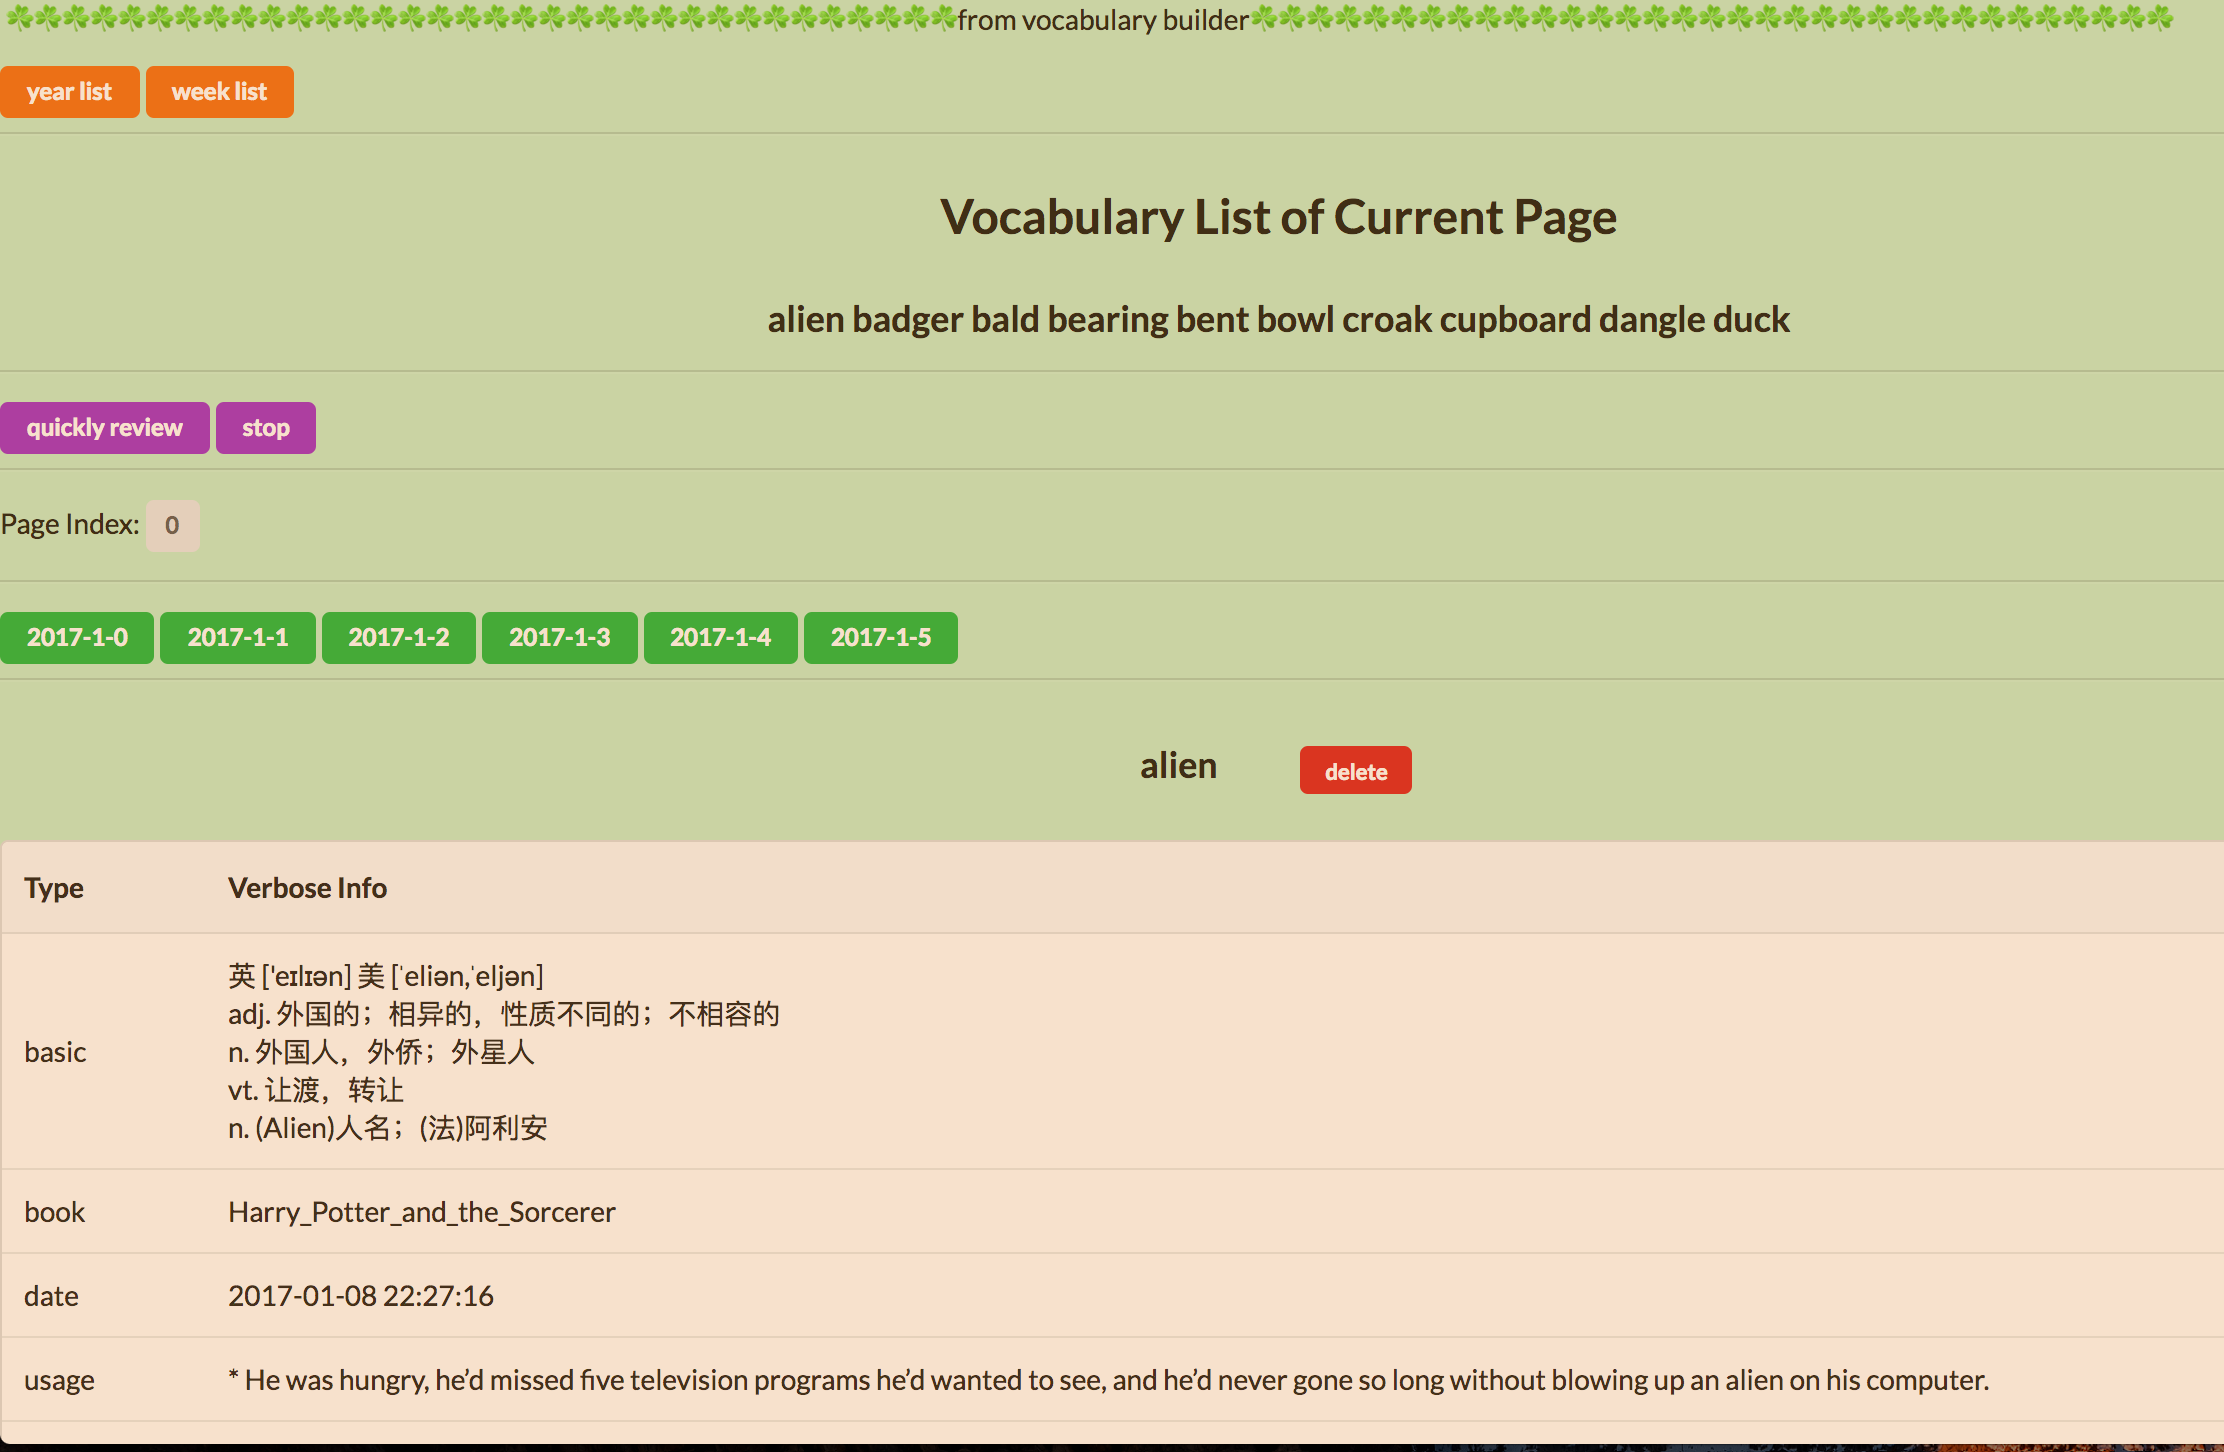
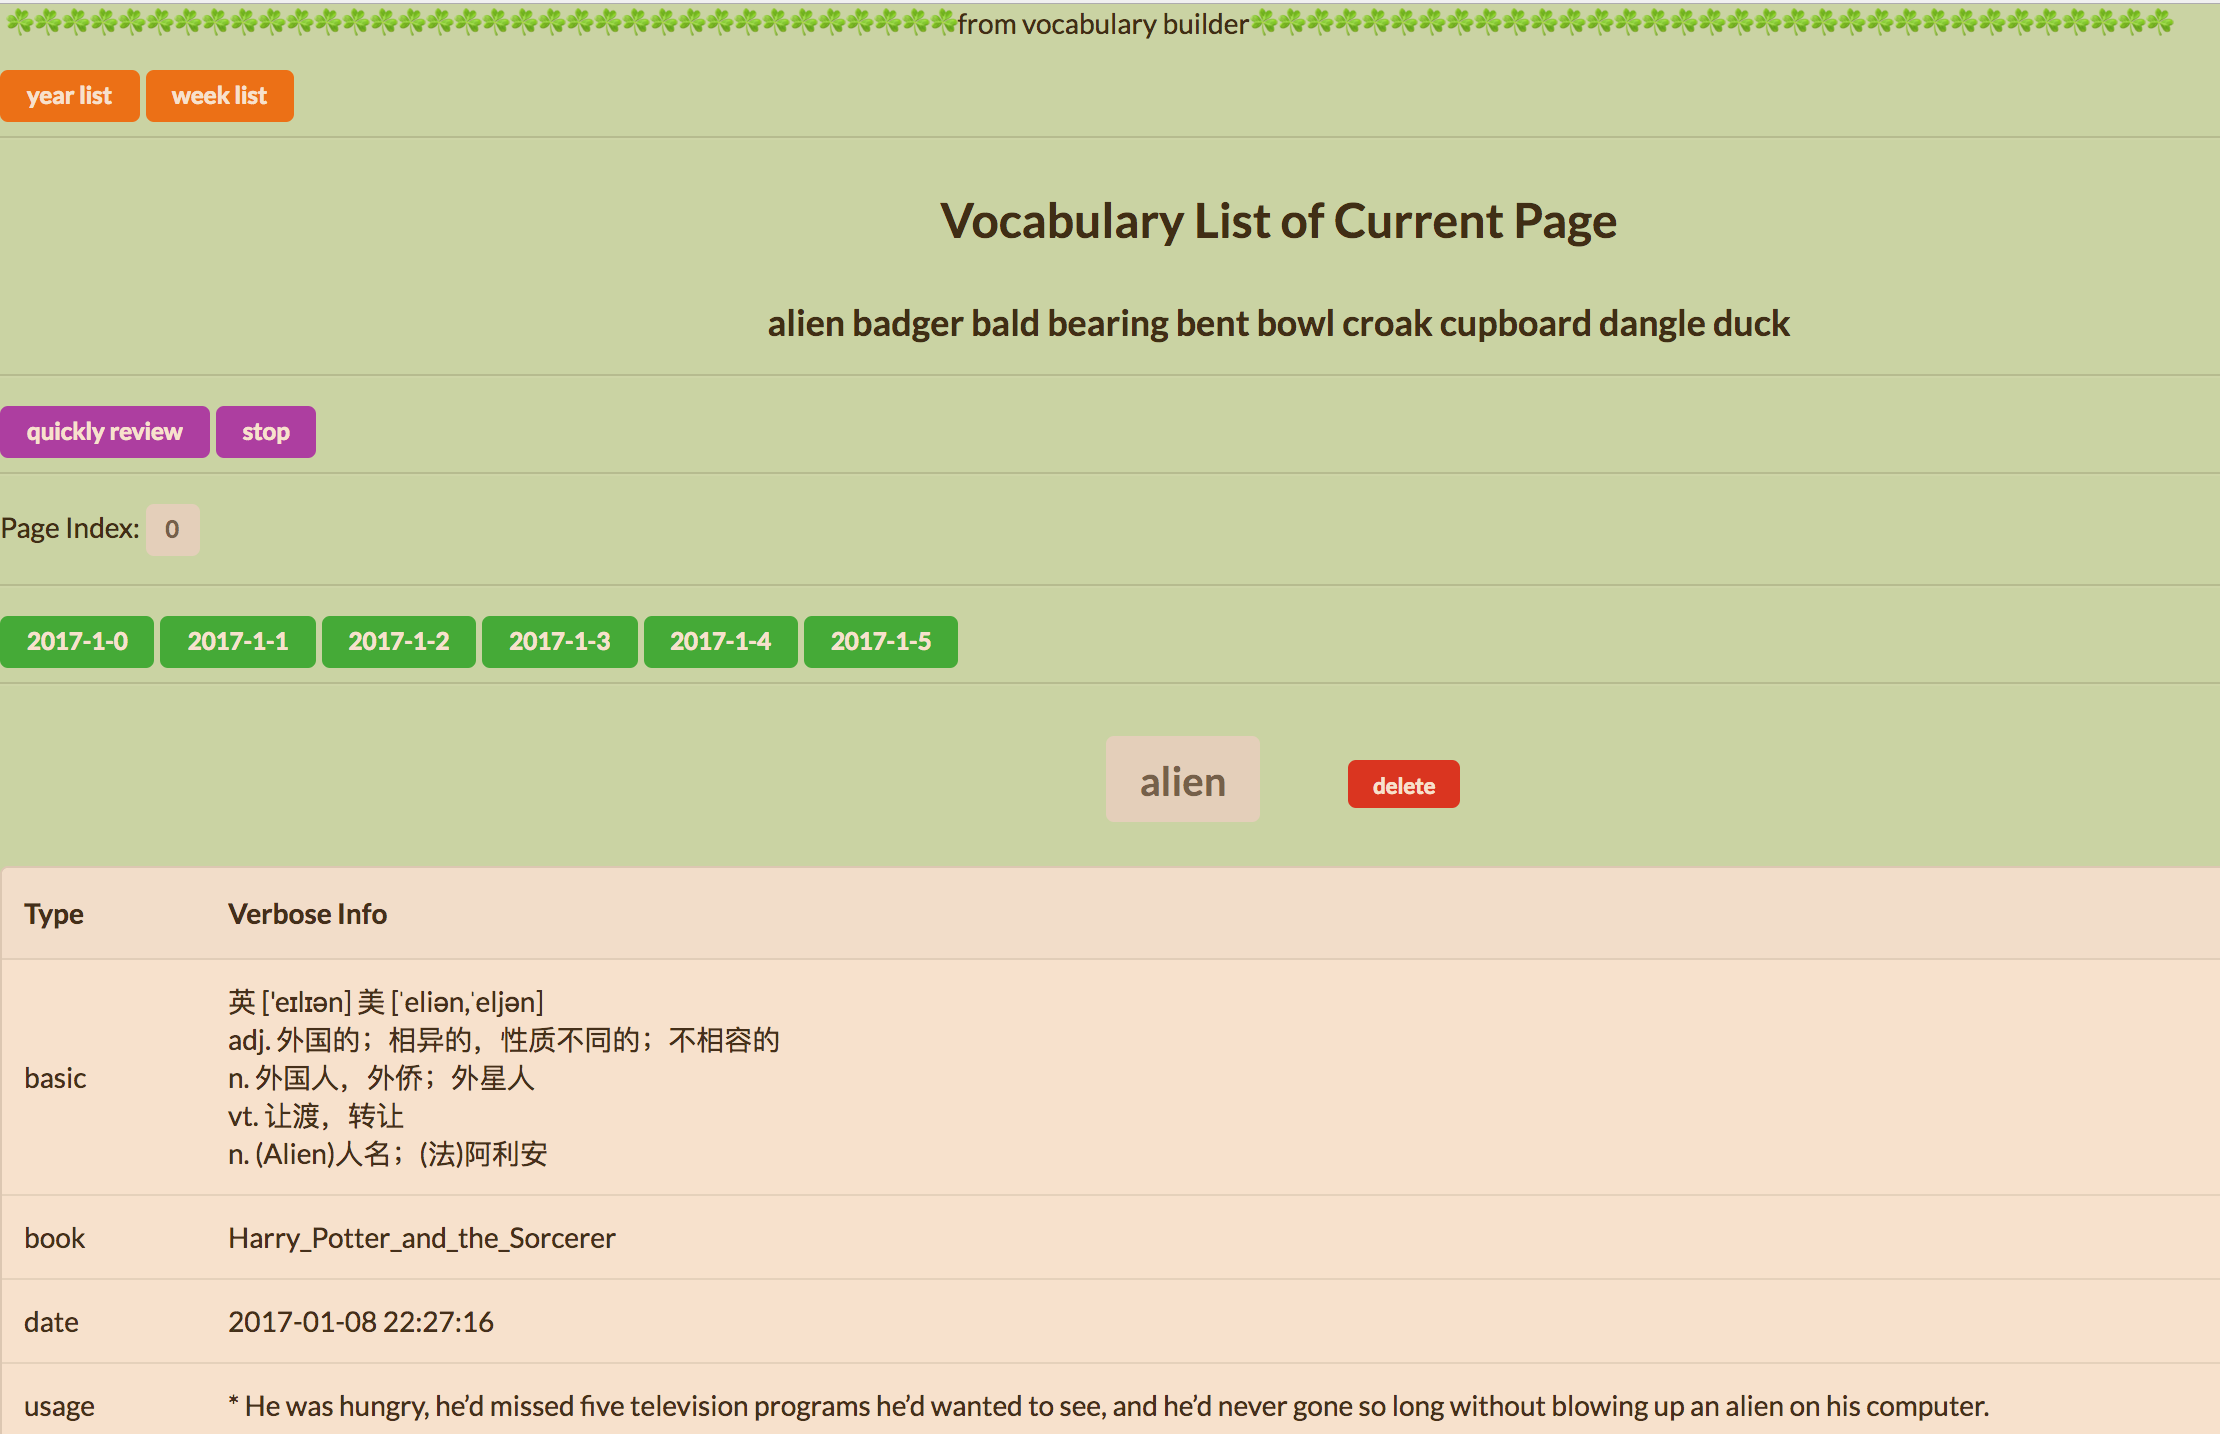
optimize presentation

diff --git a/present/templates/word_verbose_info.html b/present/templates/word_verbose_info.html
@@ -115,7 +115,7 @@
         <div class="buttonHolder">
             <form class="ui form" action = "http://localhost:5000/delete" method = "post">
                 <div class="ui action">
-                    <p class="ui header">{{word}}&nbsp;&nbsp;&nbsp;&nbsp;&nbsp;&nbsp;&nbsp;&nbsp;&nbsp;&nbsp;&nbsp;&nbsp;<input class="ui compact red mini button" type="submit" name= {{ come_from }}-{{ y }}-{{ w }}-{{ page_index }}-{{ word }} value="delete">
+                    <p class="ui header"><span class="ui huge label">{{ word }}</span>&nbsp;&nbsp;&nbsp;&nbsp;&nbsp;&nbsp;&nbsp;&nbsp;&nbsp;&nbsp;&nbsp;&nbsp;<input class="ui compact red mini button" type="submit" name= {{ come_from }}-{{ y }}-{{ w }}-{{ page_index }}-{{ word }} value="delete">
                     </p>
                 </div>
             </form>
